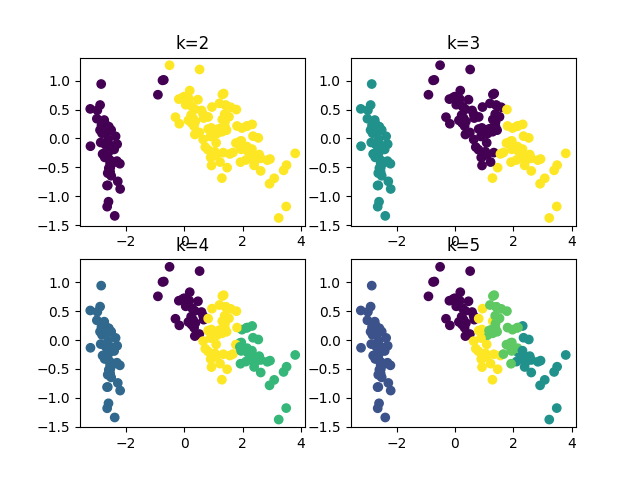
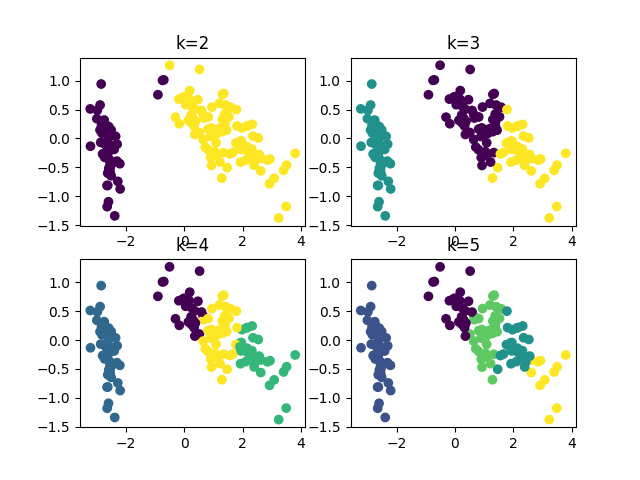
Finished coding, now report

diff --git a/IN3050/oblig3/plots.py b/IN3050/oblig3/plots.py
@@ -1,9 +1,13 @@
 import matplotlib.pyplot as plt
 import numpy as np
+from sklearn.preprocessing import OneHotEncoder
 import pca
 import syntheticdata
 from sklearn.cluster import KMeans
 from sklearn.linear_model import LogisticRegression
+from sklearn import metrics
+
+# TODO: pca.pca(..., 2)
 
 
 def plot_pca() -> None:
@@ -118,7 +122,7 @@ def plot_pca_iris_data() -> None:
 
 
 def plot_pca_lfw_data() -> None:
-    X, y, h, w = syntheticdata.get_lfw_data()
+    X, _, h, w = syntheticdata.get_lfw_data()
     plt.imsave("assets/lfw-data.png", X[0, :].reshape((h, w)))
 
     ms = [50, 100, 200, 500, 1000, X.shape[1]]
@@ -141,29 +145,59 @@ def plot_pca_lfw_data() -> None:
 
 
 def plot_pca_kmeans() -> None:
-    X, _ = syntheticdata.get_iris_data()
-    _, P = pca.pca(X, X.shape[1])
+    X, y = syntheticdata.get_iris_data()
+    _, P = pca.pca(X, 2)
 
     ks = [2, 3, 4, 5]
     y_hats = []
     for i, k in enumerate(ks):
-        KM = KMeans(k, random_state=0, n_init="auto")
-        y_hat = KM.fit_predict(P)
+        km = KMeans(k, random_state=0, n_init="auto")
+        y_hat = km.fit_predict(P)
         y_hats.append(y_hat)
+
         ax = plt.subplot(len(ks) // 2, len(ks) // 2, i + 1)
         ax.set_title(f"{k=}")
         plt.scatter(P[:, 0], P[:, 1], c=y_hat)
 
     plt.savefig("assets/kmeans.png")
 
-    l = LogisticRegression()
+    # Comment:
+    # From these graphs we can see the kmeans clustering of different values
+    # for `k`. Since we know from the true labels (assets/pca-projection-iris-data-2d.png")
+    # that there are 3 classes, ideally k=3 should give us the best clustering.
+    # However we can also see from the true labels that they run diagonally
+    # rather than forming around a center point which is what kmeans is best
+    # at. This means that kmeans may not give us perfect answers, but they
+    # look pretty decent anyways.
+
+    c = LogisticRegression()
+    c.fit(P, y)
+    print(f"Accuracy of classifier (PCA): {metrics.accuracy_score(y, c.predict(P))}")
+
+    encoder = OneHotEncoder()
+    for i, k in enumerate(ks):
+        one_hot_encoded = encoder.fit_transform(y_hats[i].reshape(-1, 1))
+        c = LogisticRegression()
+
+        c.fit(one_hot_encoded, y)
+        print(f"Accuracy of classifier (KMeans {k=}): {metrics.accuracy_score(y, c.predict(one_hot_encoded))}")
+
+    # Comment:
+    # We can see that when running the PCA only classifier we get a very good
+    # accuracy (~97%). This indicates that the dimensionality reduction done
+    # by the PCA has retained most of the data necessary for classification.
+    # The KMeans classifiers perform slightly worse (though still very well)
+    # than the PCA only classifier which is expected since these are trained
+    # on artificially created clusters rather than the actual true labels.
+    # We can also see this by comparing `assets/kmeans.png` with the true labels
+    # since they are slightly different.
 
 
 def main() -> None:
-    plot_pca()
-    plot_pca_with_labels()
-    plot_pca_iris_data()
-    plot_pca_lfw_data()
+    # plot_pca()
+    # plot_pca_with_labels()
+    # plot_pca_iris_data()
+    # plot_pca_lfw_data()
     plot_pca_kmeans()
 
 
